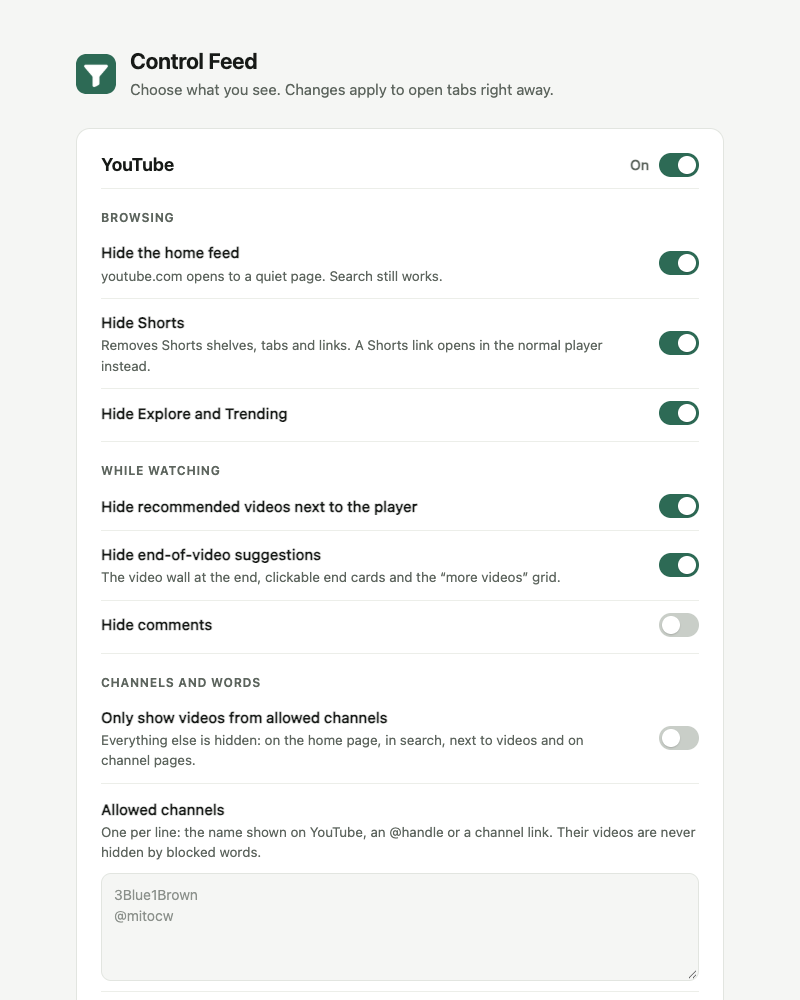
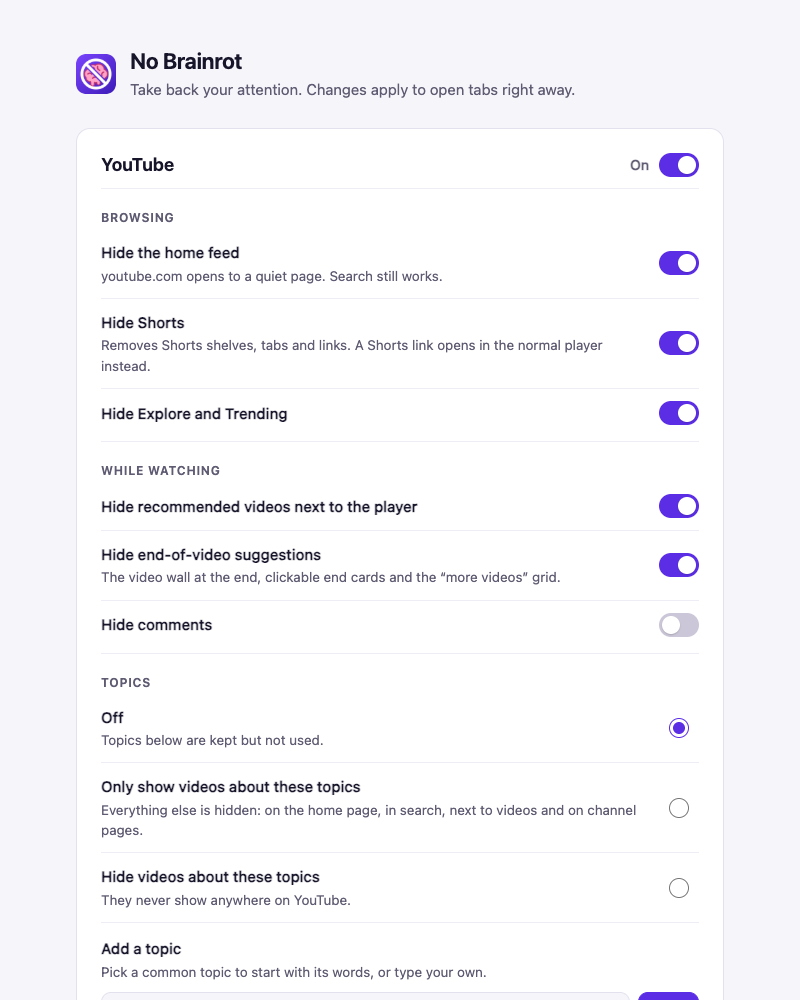
feat: rebrand to No Brainrot
Rename the extension from Control Feed to No Brainrot, with a new logo and
consumer-facing copy.

- New icon: a melting brain under a "no" sign on a violet tile, rendered to
  every toolbar size
- Tagline "Take back your attention." in the manifest, package.json and the
  settings page
- Settings page palette moved from green to violet to match the logo, in
  light and dark mode
- README opens with the logo, a short pitch and highlights; install steps no
  longer depend on the zip file name
- Internal markers, log prefixes, Firefox add-on ID, release title, issue
  templates and docs use the new name
- Settings e2e test checks the page title and heading

diff --git a/src/entrypoints/options/style.css b/src/entrypoints/options/style.css
@@ -1,42 +1,42 @@
 :root {
   color-scheme: light dark;
-  --bg: #f5f6f4;
+  --bg: #f6f5fa;
   --surface: #ffffff;
-  --border: #e2e5e0;
-  --divider: #eceee9;
-  --text: #171a17;
-  --muted: #5d655e;
-  --accent: #2d6a55;
-  --accent-soft: #e3efe9;
-  --track-off: #c9cec8;
+  --border: #e4e1ee;
+  --divider: #eeecf4;
+  --text: #17152a;
+  --muted: #5f5b72;
+  --accent: #5b2ee6;
+  --accent-soft: #ece6ff;
+  --track-off: #cbc7d8;
   --thumb: #ffffff;
   --warning-bg: #fff3dc;
   --warning-text: #6e4a00;
   --error: #b3261e;
-  --focus: #2d6a55;
-  --toast-bg: #171a17;
+  --focus: #5b2ee6;
+  --toast-bg: #17152a;
   --toast-text: #ffffff;
   --radius: 14px;
 }
 
 @media (prefers-color-scheme: dark) {
   :root {
-    --bg: #121412;
-    --surface: #1a1d1a;
-    --border: #2b302b;
-    --divider: #242824;
-    --text: #e8ebe7;
-    --muted: #9ba39b;
-    --accent: #6cc2a2;
-    --accent-soft: #1e332b;
-    --track-off: #4a514a;
-    --thumb: #f4f6f3;
+    --bg: #121019;
+    --surface: #1b1824;
+    --border: #2c2838;
+    --divider: #25222f;
+    --text: #ebe8f4;
+    --muted: #a09bb2;
+    --accent: #9d7bff;
+    --accent-soft: #2a2145;
+    --track-off: #4a4658;
+    --thumb: #f6f4fb;
     --warning-bg: #3a2c0e;
     --warning-text: #ffd894;
     --error: #ff8a80;
-    --focus: #6cc2a2;
-    --toast-bg: #e8ebe7;
-    --toast-text: #121412;
+    --focus: #9d7bff;
+    --toast-bg: #ebe8f4;
+    --toast-text: #121019;
   }
 }
 

diff --git a/e2e/options.fixtures.spec.ts b/e2e/options.fixtures.spec.ts
@@ -22,12 +22,14 @@ async function openOptions(context: BrowserContext, extensionId: string): Promis
 async function openYoutube(context: BrowserContext, path: string): Promise<Page> {
   const page = await context.newPage();
   await page.goto(`https://www.youtube.com${path}`, { waitUntil: 'domcontentloaded' });
-  await expect(page.locator('#control-feed-style[data-settings="stored"]')).toBeAttached();
+  await expect(page.locator('#no-brainrot-style[data-settings="stored"]')).toBeAttached();
   return page;
 }
 
 test('shows every setting with its current value', async ({ context, extensionId }) => {
   const options = await openOptions(context, extensionId);
+  await expect(options).toHaveTitle('No Brainrot settings');
+  await expect(options.getByRole('heading', { level: 1 })).toHaveText('No Brainrot');
   await expect(options.getByRole('switch', { name: /Hide Shorts/ })).toBeChecked();
   await expect(options.getByRole('switch', { name: /Hide comments/ })).not.toBeChecked();
   await expect(

diff --git a/wxt.config.ts b/wxt.config.ts
@@ -17,19 +17,19 @@ export default defineConfig({
     ],
   },
   manifest: ({ browser }) => ({
-    name: 'Control Feed',
+    name: 'No Brainrot',
     description:
-      'Hide Shorts, Reels, recommendations and anything else you did not choose to see on YouTube and Instagram.',
+      'Take back your attention. Hide Shorts, Reels, recommendations and endless feeds on YouTube and Instagram.',
     homepage_url: 'https://github.com/lpedenon/control-feed',
     permissions: ['storage'],
     action: {
-      default_title: 'Control Feed settings',
+      default_title: 'No Brainrot settings',
     },
     ...(browser === 'firefox'
       ? {
           browser_specific_settings: {
             gecko: {
-              id: 'control-feed@extension',
+              id: 'no-brainrot@extension',
               // Settings stay in the browser; nothing is collected or sent.
               data_collection_permissions: { required: ['none'] },
             },

diff --git a/src/entrypoints/options/index.html b/src/entrypoints/options/index.html
@@ -4,7 +4,7 @@
     <meta charset="UTF-8" />
     <meta name="viewport" content="width=device-width, initial-scale=1.0" />
     <meta name="manifest.open_in_tab" content="true" />
-    <title>Control Feed settings</title>
+    <title>No Brainrot settings</title>
     <link rel="stylesheet" href="./style.css" />
   </head>
   <body>
@@ -12,8 +12,8 @@
       <header class="brand">
         <img class="brand-mark" src="/icon/128.png" alt="" width="40" height="40" />
         <div>
-          <h1>Control Feed</h1>
-          <p class="tagline">Choose what you see. Changes apply to open tabs right away.</p>
+          <h1>No Brainrot</h1>
+          <p class="tagline">Take back your attention. Changes apply to open tabs right away.</p>
         </div>
       </header>
       <main id="options" aria-busy="true">

diff --git a/src/core/stylesheet.ts b/src/core/stylesheet.ts
@@ -2,10 +2,10 @@ import type { FeatureKey } from './features';
 import { isFeatureActive, type Settings } from './settings';
 
 /** Set on elements the tile filter decided to hide; the value says why. */
-export const HIDDEN_ATTRIBUTE = 'data-control-feed-hidden';
+export const HIDDEN_ATTRIBUTE = 'data-no-brainrot-hidden';
 
 /** Set on the root element to name the current page, for rules that apply to one page. */
-export const PAGE_ATTRIBUTE = 'data-control-feed-page';
+export const PAGE_ATTRIBUTE = 'data-no-brainrot-page';
 
 export interface HideRule {
   readonly feature: FeatureKey;

diff --git a/e2e/youtube.fixtures.spec.ts b/e2e/youtube.fixtures.spec.ts
@@ -13,7 +13,7 @@ test.beforeEach(async ({ context }) => {
 /** Waits until the extension has applied the stored settings to the page. */
 async function openPage(page: Page, path: string): Promise<void> {
   await page.goto(`${YT}${path}`, { waitUntil: 'domcontentloaded' });
-  await expect(page.locator('#control-feed-style[data-settings="stored"]')).toBeAttached();
+  await expect(page.locator('#no-brainrot-style[data-settings="stored"]')).toBeAttached();
 }
 
 async function visibleCount(page: Page, selector: string): Promise<number> {

diff --git a/src/entrypoints/options/main.ts b/src/entrypoints/options/main.ts
@@ -13,7 +13,7 @@ async function main(): Promise<void> {
     // Flush an edit still waiting to be saved when the tab closes.
     window.addEventListener('pagehide', stop, { once: true });
   } catch (error) {
-    console.error('[Control Feed] Settings page failed to start.', error);
+    console.error('[No Brainrot] Settings page failed to start.', error);
     root.textContent = 'Could not load your settings. Try reloading this page.';
   } finally {
     root.removeAttribute('aria-busy');

diff --git a/e2e/youtube.live.spec.ts b/e2e/youtube.live.spec.ts
@@ -16,7 +16,7 @@ const SHORT_LINK = 'ytd-search a[href^="/shorts/"]:not([href="/shorts/"])';
 
 async function open(page: Page, url: string): Promise<void> {
   await page.goto(url, { waitUntil: 'domcontentloaded' });
-  await expect(page.locator('#control-feed-style[data-settings="stored"]')).toBeAttached();
+  await expect(page.locator('#no-brainrot-style[data-settings="stored"]')).toBeAttached();
 }
 
 async function visibleCount(page: Page, selector: string): Promise<number> {

diff --git a/src/options/controller.ts b/src/options/controller.ts
@@ -50,7 +50,7 @@ export async function startOptions(root: HTMLElement, store: SettingsStore): Pro
       await store.save(next);
       view?.setStatus('saved', 'Saved. Open tabs update right away.');
     } catch (error) {
-      console.error('[Control Feed] Saving settings failed.', error);
+      console.error('[No Brainrot] Saving settings failed.', error);
       view?.setStatus('error', `Could not save your changes: ${describeError(error)}`);
     }
   };

diff --git a/e2e/instagram.live.spec.ts b/e2e/instagram.live.spec.ts
@@ -24,7 +24,7 @@ test.use({ profile: 'instagram' });
 
 async function open(page: Page, url: string): Promise<void> {
   await page.goto(url, { waitUntil: 'domcontentloaded' });
-  await expect(page.locator('#control-feed-style[data-settings="stored"]')).toBeAttached();
+  await expect(page.locator('#no-brainrot-style[data-settings="stored"]')).toBeAttached();
 }
 
 /** Instagram greets new browser profiles with prompts such as "Turn on Notifications". */

diff --git a/src/core/bootstrap.ts b/src/core/bootstrap.ts
@@ -15,7 +15,7 @@ export async function runSite<Info>(
     runner.apply(await loadSettings());
   } catch (error) {
     // Keep protecting the page with defaults rather than showing everything.
-    console.error('[Control Feed] Could not read settings; using defaults.', error);
+    console.error('[No Brainrot] Could not read settings; using defaults.', error);
     runner.apply(DEFAULT_SETTINGS);
   }
 

diff --git a/e2e/support/instagram-profile.ts b/e2e/support/instagram-profile.ts
@@ -16,7 +16,7 @@ export async function copyInstagramProfile(): Promise<{
   dir: string;
   cleanup: () => Promise<void>;
 }> {
-  const dir = await mkdtemp(join(tmpdir(), 'control-feed-ig-'));
+  const dir = await mkdtemp(join(tmpdir(), 'no-brainrot-ig-'));
   await cp(INSTAGRAM_PROFILE_DIR, dir, {
     recursive: true,
     // Lock files belong to a running browser and must not be copied.
